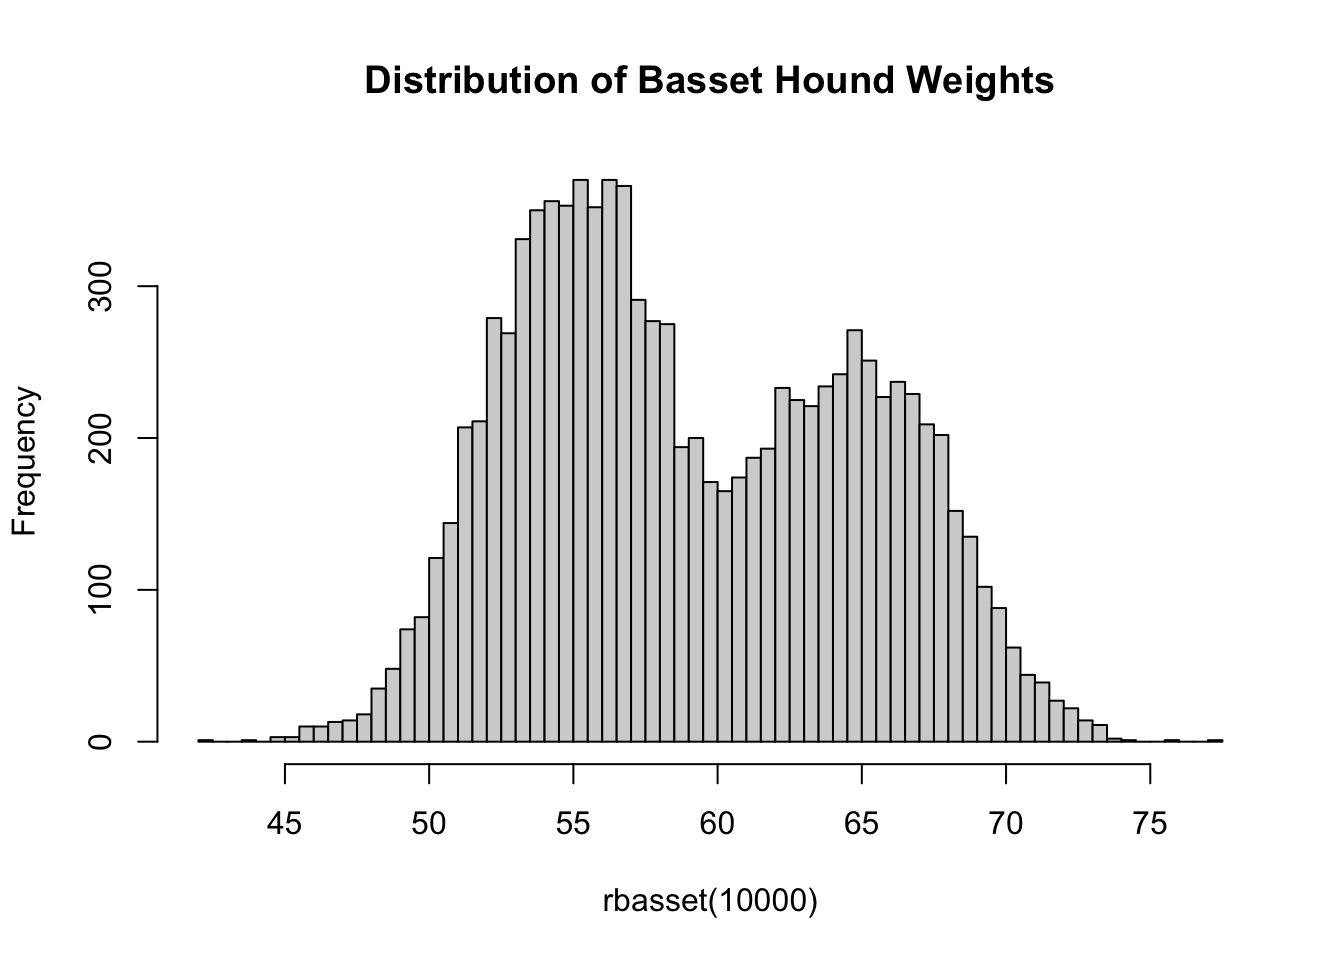
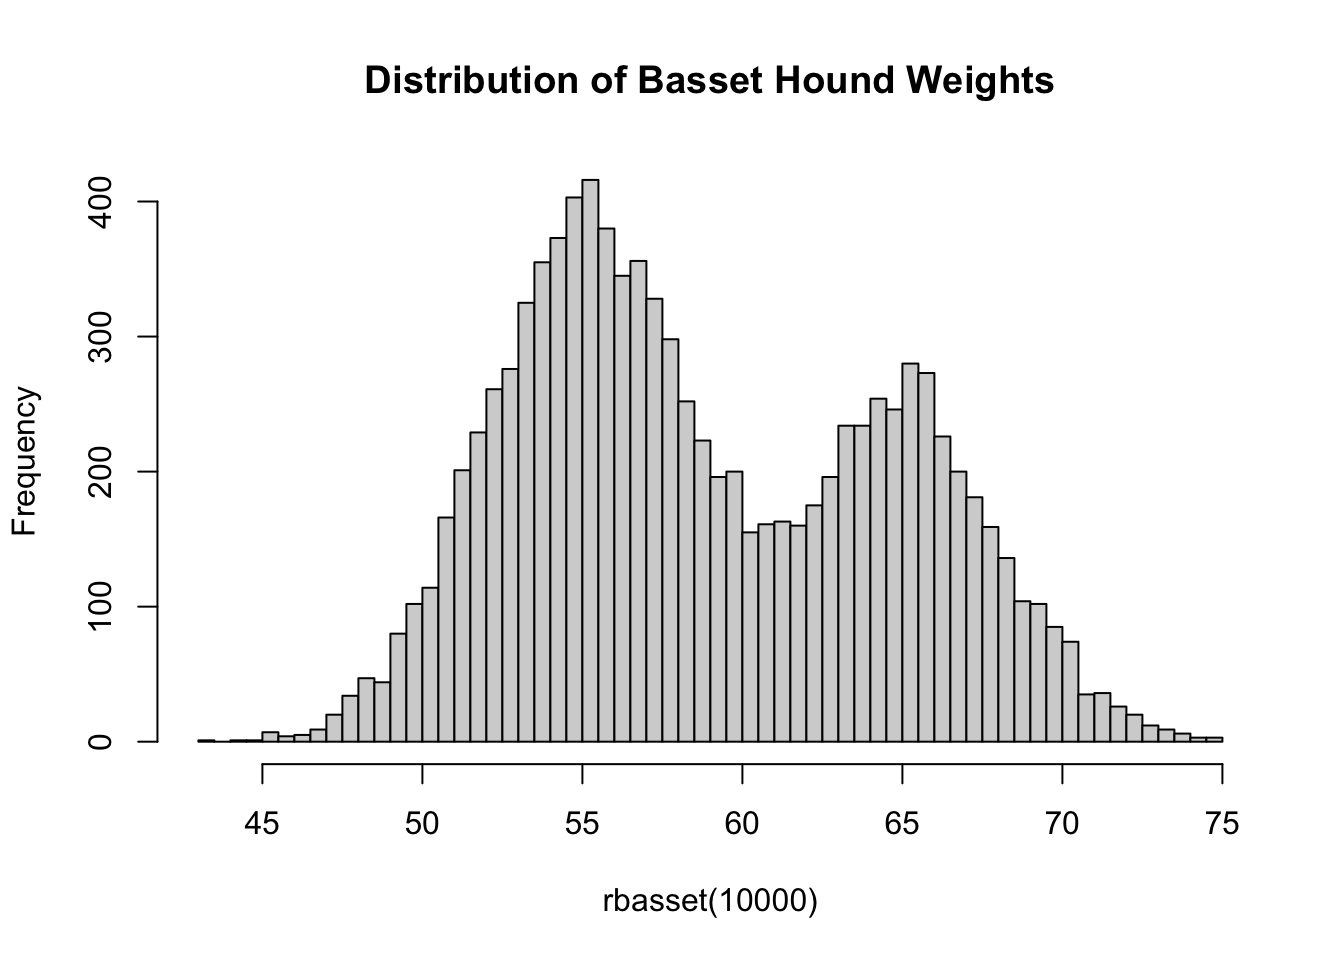
Tweak to Schedule
- Put Regularization on its own week
  to accomodate Test 1 + competition intro
- Combine L1 and L2 penalization

diff --git a/docs/notes/notes06.html b/docs/notes/notes06.html
@@ -5,8 +5,8 @@
 <meta name="generator" content="quarto-1.7.33">
 <meta name="viewport" content="width=device-width, initial-scale=1.0, user-scalable=yes">
 <meta name="author" content="Michael Weylandt">
-<meta name="dcterms.date" content="2026-01-13">
-<title>STA 9890 - Supervised Learning: II. Sparsity and the Lasso – STA 9890</title>
+<meta name="dcterms.date" content="2026-01-23">
+<title>STA 9890 - Supervised Learning: II. Penalized Regression – STA 9890</title>
 <style>
 code{white-space: pre-wrap;}
 span.smallcaps{font-variant: small-caps;}
@@ -202,7 +202,7 @@ window.Quarto = {
     </div>
 <!-- main -->
 <main class="content" id="quarto-document-content"><header id="title-block-header" class="quarto-title-block default"><div class="quarto-title">
-<h1 class="title">STA 9890 - Supervised Learning: II. Sparsity and the Lasso</h1>
+<h1 class="title">STA 9890 - Supervised Learning: II. Penalized Regression</h1>
 </div>
 
 
@@ -219,7 +219,7 @@ window.Quarto = {
     <div>
     <div class="quarto-title-meta-heading">Published</div>
     <div class="quarto-title-meta-contents">
-      <p class="date">January 13, 2026</p>
+      <p class="date">January 23, 2026</p>
     </div>
   </div>
   
@@ -243,7 +243,7 @@ window.Quarto = {
 <span><span class="op">}</span></span>
 <span><span class="fu">rbasset</span><span class="op">(</span><span class="fl">1</span><span class="op">)</span></span></code><button title="Copy to Clipboard" class="code-copy-button"><i class="bi"></i></button></pre></div>
 <div class="cell-output cell-output-stdout">
-<pre><code>[1] 57.38527</code></pre>
+<pre><code>[1] 53.06954</code></pre>
 </div>
 </div>
 <p>If we collect the weights of many basset hounds, we see that the resulting distribution is not normally distributed:</p>

diff --git a/docs/notes/notes05.html b/docs/notes/notes05.html
@@ -5,8 +5,8 @@
 <meta name="generator" content="quarto-1.7.33">
 <meta name="viewport" content="width=device-width, initial-scale=1.0, user-scalable=yes">
 <meta name="author" content="Michael Weylandt">
-<meta name="dcterms.date" content="2026-01-13">
-<title>STA 9890 - Supervised Learning: I. Regularization &amp; Ridge Regression – STA 9890</title>
+<meta name="dcterms.date" content="2026-01-23">
+<title>STA 9890 - Supervised Learning: I. Regularization &amp; Shrinkage – STA 9890</title>
 <style>
 code{white-space: pre-wrap;}
 span.smallcaps{font-variant: small-caps;}
@@ -198,7 +198,7 @@ window.Quarto = {
     </div>
 <!-- main -->
 <main class="content" id="quarto-document-content"><header id="title-block-header" class="quarto-title-block default"><div class="quarto-title">
-<h1 class="title">STA 9890 - Supervised Learning: I. Regularization &amp; Ridge Regression</h1>
+<h1 class="title">STA 9890 - Supervised Learning: I. Regularization &amp; Shrinkage</h1>
 </div>
 
 
@@ -215,7 +215,7 @@ window.Quarto = {
     <div>
     <div class="quarto-title-meta-heading">Published</div>
     <div class="quarto-title-meta-contents">
-      <p class="date">January 13, 2026</p>
+      <p class="date">January 23, 2026</p>
     </div>
   </div>
   

diff --git a/docs/syllabus.html b/docs/syllabus.html
@@ -371,7 +371,7 @@ window.Quarto = {
 <td style="text-align: center;">5</td>
 <td style="text-align: center;">2026-02-25
 </td><td colspan="3" style="text-align:center">
-<strong>Test I: Fundamentals of ML</strong> <br> Supervised Learning: I. Regularization &amp; Ridge Regression
+<strong>Test I: Fundamentals of ML</strong> <br> Supervised Learning: I. Regularization &amp; Shrinkage
 </td>
 <td style="text-align: left;"></td>
 <td style="text-align: left;"></td>
@@ -381,8 +381,9 @@ window.Quarto = {
 <tr class="even">
 <td style="text-align: center;"><p>6</p></td>
 <td style="text-align: center;"><p>2026-03-04</p></td>
-<td style="text-align: left;"><p>Supervised Learning: II. Sparsity and the Lasso:</p>
+<td style="text-align: left;"><p>Supervised Learning: II. Penalized Regression:</p>
 <ul>
+<li>Ridge Regression &amp; <span class="math inline">\(\ell_2\)</span> Regularization</li>
 <li>Sparsity</li>
 <li><span class="math inline">\(\ell_1\)</span>-Penalization</li>
 <li><span class="math inline">\(\ell_2\)</span> vs <span class="math inline">\(\ell_1\)</span></li>

diff --git a/docs/index.html b/docs/index.html
@@ -172,8 +172,8 @@ ul.task-list li input[type="checkbox"] {
 <p>There are quite a few moving parts to this course, so this <a href="./key_dates.csv">key dates file</a> or the list of upcoming course activities below may be useful:</p>
 <div class="cell">
 <div class="cell-output-display">
-<div class="datatables html-widget html-fill-item" id="htmlwidget-22be9716ad7409cfa18b" style="width:100%;height:auto;"></div>
-<script type="application/json" data-for="htmlwidget-22be9716ad7409cfa18b">{"x":{"filter":"none","vertical":false,"caption":"<caption>Upcoming Important Dates for STA 9890<\/caption>","data":[["1","2","3","4","5","6","7","8","9","10","11","12","13","14","15","16","17","18","19","20","21","22","23","24"],["Class Session","Class Session","Class Session","Syllabus Quiz","Class Session","Prediction Competition","Class Session","Test","Class Session","Class Session","Class Session","Class Session","Holiday","Holiday","Class Session","Test","Class Session","Class Session","Class Session","Class Session","Test","Exam Period","Prediction Competition","Prediction Competition"],[1,2,3,null,4,null,5,1,6,7,8,9,1,2,10,2,11,12,13,14,3,null,null,null],["Instructor","Instructor","Instructor","Students","Instructor","Instructor","Instructor","Students","Instructor","Instructor","Instructor","Instructor",null,null,"Instructor","Students","Instructor","Instructor","Instructor","Instructor","Students",null,"Students","Students"],["2026-01-28","2026-02-04","2026-02-11","2026-02-12","2026-02-18","2026-02-18","2026-02-25","2026-02-25","2026-03-04","2026-03-11","2026-03-18","2026-03-25","2026-04-01","2026-04-08","2026-04-15","2026-04-15","2026-04-22","2026-04-29","2026-05-06","2026-05-13","2026-05-13","2026-05-20","2026-05-20","2026-05-26"],["6:05pm ET","6:05pm ET","6:05pm ET","11:59pm ET","6:05pm ET","8:30pm ET","6:05pm ET","6:15pm ET","6:05pm ET","6:05pm ET","6:05pm ET","6:05pm ET",null,null,"6:05pm ET","6:15pm ET","6:05pm ET","6:05pm ET","6:05pm ET","6:05pm ET","6:15pm ET",null,"6:00pm ET","11:59pm ET"],["Fundamentals of ML: I. Introduction to ML","Fundamentals of ML: II. Linear Algebra Foundations","Fundamentals of ML: III. Accuracy and Loss in ML","Syllabus Quiz on Brightspace for Verification of Enrollment","Fundamentals of ML: IV. Optimization &amp; Simulation in ML","Prediction Competition Opened","Supervised Learning: I. Regularization &amp; Ridge Regression","Test I: Fundamentals of ML","Supervised Learning: II. Sparsity and the Lasso","Supervised Learning: III. Generative Classifiers","Supervised Learning: IV. Discriminative Classifiers &amp; Non-Linear Methods","Supervised Learning: V. Trees &amp; Ensemble Methods","No Class: Baruch Spring Recess (Week 1 of 2)","No Class: Baruch Spring Recess (Week 2 of 2)","Unsupervised Learning: I. Introduction","Test II: Supervised Learning","Unsupervised Learning: II. Clustering","Unsupervised Learning: III. Dimension Reduction &amp; Manifold Learning","Unsupervised Learning: IV. Generative Models","Course Wrap-Up","Test III: Unsupervised Learning","Course Competition Final Presentations [Tentative]","In-Class Presentations","Final Report"]],"container":"<table class=\"display\">\n  <thead>\n    <tr>\n      <th> <\/th>\n      <th>Course Element<\/th>\n      <th>Item Number<\/th>\n      <th>Responsible Party<\/th>\n      <th>Date<\/th>\n      <th>Time<\/th>\n      <th>Details<\/th>\n    <\/tr>\n  <\/thead>\n<\/table>","options":{"searching":false,"paging":true,"columnDefs":[{"className":"dt-right","targets":2},{"orderable":false,"targets":0},{"name":" ","targets":0},{"name":"Course Element","targets":1},{"name":"Item Number","targets":2},{"name":"Responsible Party","targets":3},{"name":"Date","targets":4},{"name":"Time","targets":5},{"name":"Details","targets":6}],"order":[],"autoWidth":false,"orderClasses":false}},"evals":[],"jsHooks":[]}</script>
+<div class="datatables html-widget html-fill-item" id="htmlwidget-9fab9b26dfe912e4907c" style="width:100%;height:auto;"></div>
+<script type="application/json" data-for="htmlwidget-9fab9b26dfe912e4907c">{"x":{"filter":"none","vertical":false,"caption":"<caption>Upcoming Important Dates for STA 9890<\/caption>","data":[["1","2","3","4","5","6","7","8","9","10","11","12","13","14","15","16","17","18","19","20","21","22","23","24"],["Class Session","Class Session","Class Session","Syllabus Quiz","Class Session","Prediction Competition","Class Session","Test","Class Session","Class Session","Class Session","Class Session","Holiday","Holiday","Class Session","Test","Class Session","Class Session","Class Session","Class Session","Test","Exam Period","Prediction Competition","Prediction Competition"],[1,2,3,null,4,null,5,1,6,7,8,9,1,2,10,2,11,12,13,14,3,null,null,null],["Instructor","Instructor","Instructor","Students","Instructor","Instructor","Instructor","Students","Instructor","Instructor","Instructor","Instructor",null,null,"Instructor","Students","Instructor","Instructor","Instructor","Instructor","Students",null,"Students","Students"],["2026-01-28","2026-02-04","2026-02-11","2026-02-12","2026-02-18","2026-02-18","2026-02-25","2026-02-25","2026-03-04","2026-03-11","2026-03-18","2026-03-25","2026-04-01","2026-04-08","2026-04-15","2026-04-15","2026-04-22","2026-04-29","2026-05-06","2026-05-13","2026-05-13","2026-05-20","2026-05-20","2026-05-26"],["6:05pm ET","6:05pm ET","6:05pm ET","11:59pm ET","6:05pm ET","8:30pm ET","6:05pm ET","6:15pm ET","6:05pm ET","6:05pm ET","6:05pm ET","6:05pm ET",null,null,"6:05pm ET","6:15pm ET","6:05pm ET","6:05pm ET","6:05pm ET","6:05pm ET","6:15pm ET",null,"6:00pm ET","11:59pm ET"],["Fundamentals of ML: I. Introduction to ML","Fundamentals of ML: II. Linear Algebra Foundations","Fundamentals of ML: III. Accuracy and Loss in ML","Syllabus Quiz on Brightspace for Verification of Enrollment","Fundamentals of ML: IV. Optimization &amp; Simulation in ML","Prediction Competition Opened","Supervised Learning: I. Regularization &amp; Shrinkage","Test I: Fundamentals of ML","Supervised Learning: II. Penalized Regression","Supervised Learning: III. Generative Classifiers","Supervised Learning: IV. Discriminative Classifiers &amp; Non-Linear Methods","Supervised Learning: V. Trees &amp; Ensemble Methods","No Class: Baruch Spring Recess (Week 1 of 2)","No Class: Baruch Spring Recess (Week 2 of 2)","Unsupervised Learning: I. Introduction","Test II: Supervised Learning","Unsupervised Learning: II. Clustering","Unsupervised Learning: III. Dimension Reduction &amp; Manifold Learning","Unsupervised Learning: IV. Generative Models","Course Wrap-Up","Test III: Unsupervised Learning","Course Competition Final Presentations [Tentative]","In-Class Presentations","Final Report"]],"container":"<table class=\"display\">\n  <thead>\n    <tr>\n      <th> <\/th>\n      <th>Course Element<\/th>\n      <th>Item Number<\/th>\n      <th>Responsible Party<\/th>\n      <th>Date<\/th>\n      <th>Time<\/th>\n      <th>Details<\/th>\n    <\/tr>\n  <\/thead>\n<\/table>","options":{"searching":false,"paging":true,"columnDefs":[{"className":"dt-right","targets":2},{"orderable":false,"targets":0},{"name":" ","targets":0},{"name":"Course Element","targets":1},{"name":"Item Number","targets":2},{"name":"Responsible Party","targets":3},{"name":"Date","targets":4},{"name":"Time","targets":5},{"name":"Details","targets":6}],"order":[],"autoWidth":false,"orderClasses":false}},"evals":[],"jsHooks":[]}</script>
 </div>
 </div>
 <script defer="">

diff --git a/docs/notes.html b/docs/notes.html
@@ -235,13 +235,13 @@ window.Quarto = {
 </ul>
 </section>
 <section id="week05" class="level4">
-<h4 class="anchored" data-anchor-id="week05">Week 5 - Supervised Learning: I. Regularization &amp; Ridge Regression (2026-02-25)</h4>
+<h4 class="anchored" data-anchor-id="week05">Week 5 - Supervised Learning: I. Regularization &amp; Shrinkage (2026-02-25)</h4>
 <ul>
 <li><a href="./notes/notes05.html">Instructor Notes</a></li>
 </ul>
 </section>
 <section id="week06" class="level4">
-<h4 class="anchored" data-anchor-id="week06">Week 6 - Supervised Learning: II. Sparsity and the Lasso (2026-03-04)</h4>
+<h4 class="anchored" data-anchor-id="week06">Week 6 - Supervised Learning: II. Penalized Regression (2026-03-04)</h4>
 <ul>
 <li><a href="./notes/notes06.html">Instructor Notes</a></li>
 </ul>